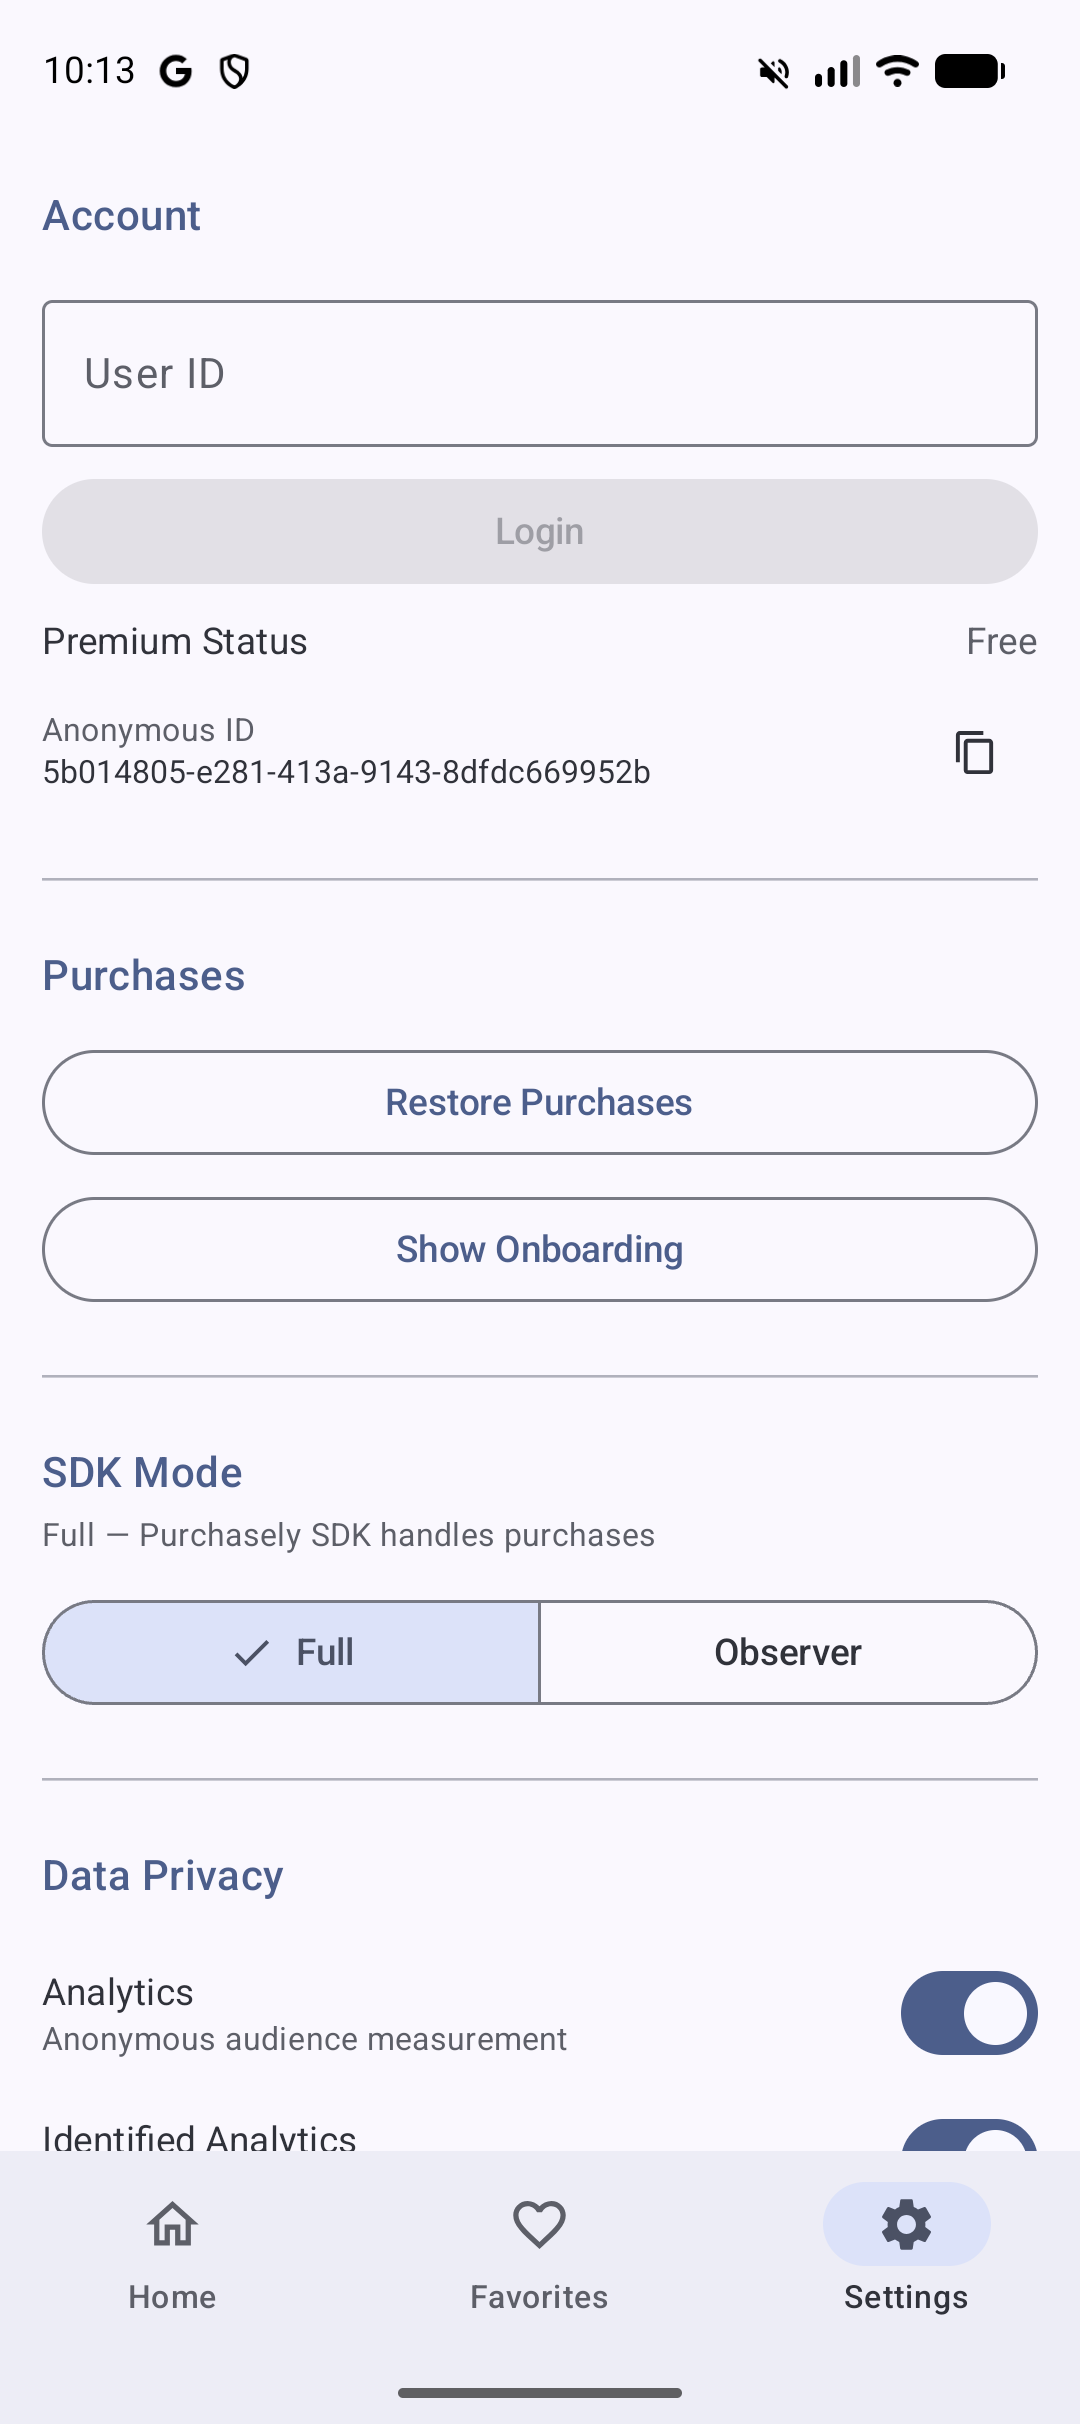
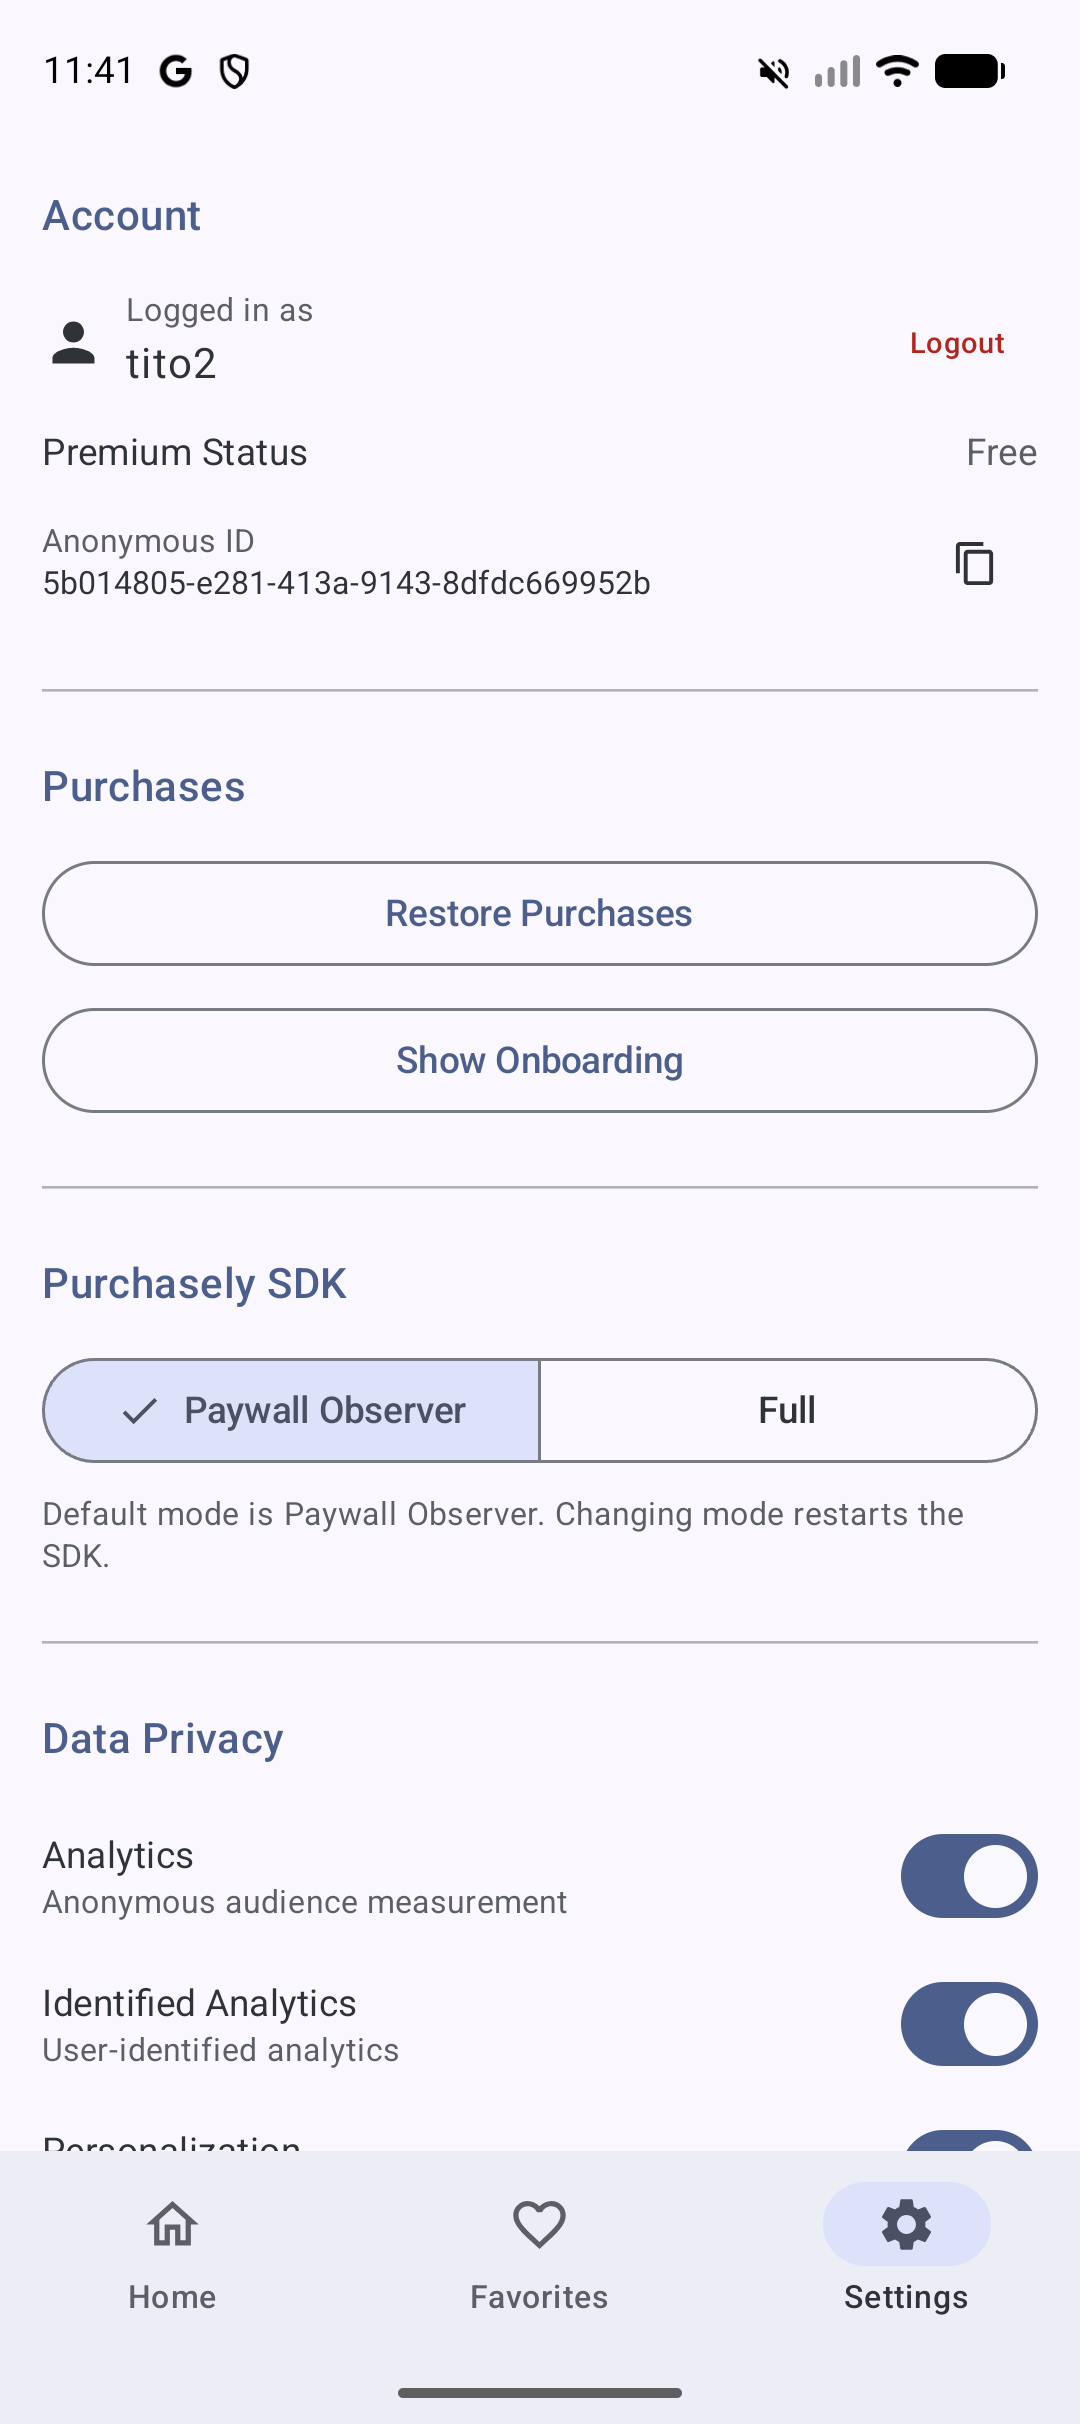
feat: polish Settings UI + add Screen Display Mode to iOS
- Login button inline right of text field (Android)
- Logout small button right of user ID (both platforms)
- Rename "Paywall Display Mode" to "Screen Display Mode" (Android)
- Add Screen Display Mode section with 4 options to iOS
- Improve detail page: wider padding, section spacing, ingredient dividers
- Update screenshots

diff --git a/android/app/src/main/java/com/purchasely/shaker/ui/screen/settings/SettingsScreen.kt b/android/app/src/main/java/com/purchasely/shaker/ui/screen/settings/SettingsScreen.kt
@@ -113,7 +113,7 @@ fun SettingsScreen(
             Row(verticalAlignment = Alignment.CenterVertically) {
                 Icon(Icons.Default.Person, contentDescription = null)
                 Spacer(modifier = Modifier.width(8.dp))
-                Column {
+                Column(modifier = Modifier.weight(1f)) {
                     Text(
                         text = "Logged in as",
                         style = MaterialTheme.typography.bodySmall,
@@ -124,34 +124,38 @@ fun SettingsScreen(
                         style = MaterialTheme.typography.bodyLarge
                     )
                 }
-            }
-            Spacer(modifier = Modifier.height(12.dp))
-            OutlinedButton(
-                onClick = { viewModel.logout() },
-                modifier = Modifier.fillMaxWidth()
-            ) {
-                Text("Logout")
+                TextButton(onClick = { viewModel.logout() }) {
+                    Text(
+                        "Logout",
+                        style = MaterialTheme.typography.labelSmall,
+                        color = MaterialTheme.colorScheme.error
+                    )
+                }
             }
         } else {
             // Login form
-            OutlinedTextField(
-                value = loginInput,
-                onValueChange = { loginInput = it },
-                label = { Text("User ID") },
-                placeholder = { Text("Enter any user ID") },
-                singleLine = true,
+            Row(
+                verticalAlignment = Alignment.CenterVertically,
                 modifier = Modifier.fillMaxWidth()
-            )
-            Spacer(modifier = Modifier.height(8.dp))
-            Button(
-                onClick = {
-                    viewModel.login(loginInput)
-                    loginInput = ""
-                },
-                modifier = Modifier.fillMaxWidth(),
-                enabled = loginInput.isNotBlank()
             ) {
-                Text("Login")
+                OutlinedTextField(
+                    value = loginInput,
+                    onValueChange = { loginInput = it },
+                    label = { Text("User ID") },
+                    placeholder = { Text("Enter any user ID") },
+                    singleLine = true,
+                    modifier = Modifier.weight(1f)
+                )
+                Spacer(modifier = Modifier.width(8.dp))
+                Button(
+                    onClick = {
+                        viewModel.login(loginInput)
+                        loginInput = ""
+                    },
+                    enabled = loginInput.isNotBlank()
+                ) {
+                    Text("Login")
+                }
             }
         }
 
@@ -351,9 +355,9 @@ fun SettingsScreen(
         HorizontalDivider()
         Spacer(modifier = Modifier.height(24.dp))
 
-        // Display Mode section (Android only)
+        // Display Mode section
         Text(
-            text = "Paywall Display Mode",
+            text = "Screen Display Mode",
             style = MaterialTheme.typography.titleMedium,
             color = MaterialTheme.colorScheme.primary
         )

diff --git a/ios/Shaker/Screens/Detail/DetailScreen.swift b/ios/Shaker/Screens/Detail/DetailScreen.swift
@@ -21,11 +21,12 @@ struct DetailScreen: View {
                             .frame(height: 300)
                             .clipped()
 
-                        VStack(alignment: .leading, spacing: 16) {
+                        VStack(alignment: .leading, spacing: 20) {
                             // Name and description
                             Text(cocktail.name)
                                 .font(.largeTitle)
                                 .fontWeight(.bold)
+                                .padding(.top, 4)
 
                             Text(cocktail.description)
                                 .font(.body)
@@ -39,7 +40,7 @@ struct DetailScreen: View {
                             }
 
                             // Ingredients
-                            VStack(alignment: .leading, spacing: 8) {
+                            VStack(alignment: .leading, spacing: 10) {
                                 Text("Ingredients")
                                     .font(.title2)
                                     .fontWeight(.semibold)
@@ -54,11 +55,12 @@ struct DetailScreen: View {
                                             .foregroundStyle(premiumManager.isPremium ? .secondary : .quaternary)
                                     }
                                     .padding(.vertical, 2)
+                                    Divider()
                                 }
                             }
 
                             // Instructions
-                            VStack(alignment: .leading, spacing: 8) {
+                            VStack(alignment: .leading, spacing: 10) {
                                 Text("Instructions")
                                     .font(.title2)
                                     .fontWeight(.semibold)
@@ -102,7 +104,8 @@ struct DetailScreen: View {
                                 }
                             }
                         }
-                        .padding(16)
+                        .padding(.horizontal, 20)
+                        .padding(.bottom, 20)
                     }
                 }
                 .navigationTitle(cocktail.name)

diff --git a/ios/Shaker/Screens/Settings/SettingsViewModel.swift b/ios/Shaker/Screens/Settings/SettingsViewModel.swift
@@ -17,9 +17,11 @@ class SettingsViewModel: ObservableObject {
     @Published var thirdPartyConsent: Bool
     @Published var runningMode: String
     @Published var anonymousId: String = ""
+    @Published var displayMode: String
 
     private let userIdKey = "user_id"
     private let themeKey = "theme_mode"
+    private let displayModeKey = "display_mode"
     private let consentAnalyticsKey = "consent_analytics"
     private let consentIdentifiedAnalyticsKey = "consent_identified_analytics"
     private let consentPersonalizationKey = "consent_personalization"
@@ -39,6 +41,7 @@ class SettingsViewModel: ObservableObject {
         campaignsConsent = defaults.object(forKey: consentCampaignsKey) == nil ? true : defaults.bool(forKey: consentCampaignsKey)
         thirdPartyConsent = defaults.object(forKey: consentThirdPartyKey) == nil ? true : defaults.bool(forKey: consentThirdPartyKey)
         runningMode = RunningModeRepository.shared.isObserverMode ? "observer" : "full"
+        displayMode = UserDefaults.standard.string(forKey: displayModeKey) ?? "fullscreen"
 
         applyConsentPreferences()
         anonymousId = Purchasely.anonymousUserId ?? ""
@@ -163,6 +166,12 @@ class SettingsViewModel: ObservableObject {
         runningMode = mode
         RunningModeRepository.shared.runningMode = mode == "observer" ? .paywallObserver : .full
         print("[Shaker] Running mode changed to: \(mode)")
+    }
+
+    func setDisplayMode(_ mode: String) {
+        displayMode = mode
+        UserDefaults.standard.set(mode, forKey: displayModeKey)
+        print("[Shaker] Display mode changed to: \(mode)")
     }
 
     private func applyConsentPreferences() {

diff --git a/ios/Shaker/Screens/Settings/SettingsScreen.swift b/ios/Shaker/Screens/Settings/SettingsScreen.swift
@@ -21,12 +21,13 @@ struct SettingsScreen: View {
                             Text(userId)
                                 .font(.body)
                         }
+                        Spacer()
+                        Button("Logout") {
+                            viewModel.logout()
+                        }
+                        .font(.caption)
+                        .foregroundStyle(.red)
                     }
-
-                    Button("Logout") {
-                        viewModel.logout()
-                    }
-                    .foregroundStyle(.red)
                 } else {
                     HStack {
                         TextField("User ID", text: $loginInput)
@@ -172,6 +173,24 @@ struct SettingsScreen: View {
                 .onChange(of: viewModel.themeMode) { newValue in
                     viewModel.setThemeMode(newValue)
                 }
+            }
+
+            // Screen Display Mode section
+            Section {
+                Picker("Display Mode", selection: Binding(
+                    get: { viewModel.displayMode },
+                    set: { viewModel.setDisplayMode($0) }
+                )) {
+                    Text("Full").tag("fullscreen")
+                    Text("Modal").tag("modal")
+                    Text("Drawer").tag("drawer")
+                    Text("Popin").tag("popin")
+                }
+                .pickerStyle(.segmented)
+            } header: {
+                Text("Screen Display Mode")
+            } footer: {
+                Text("How paywalls are presented on screen")
             }
 
             // About section
